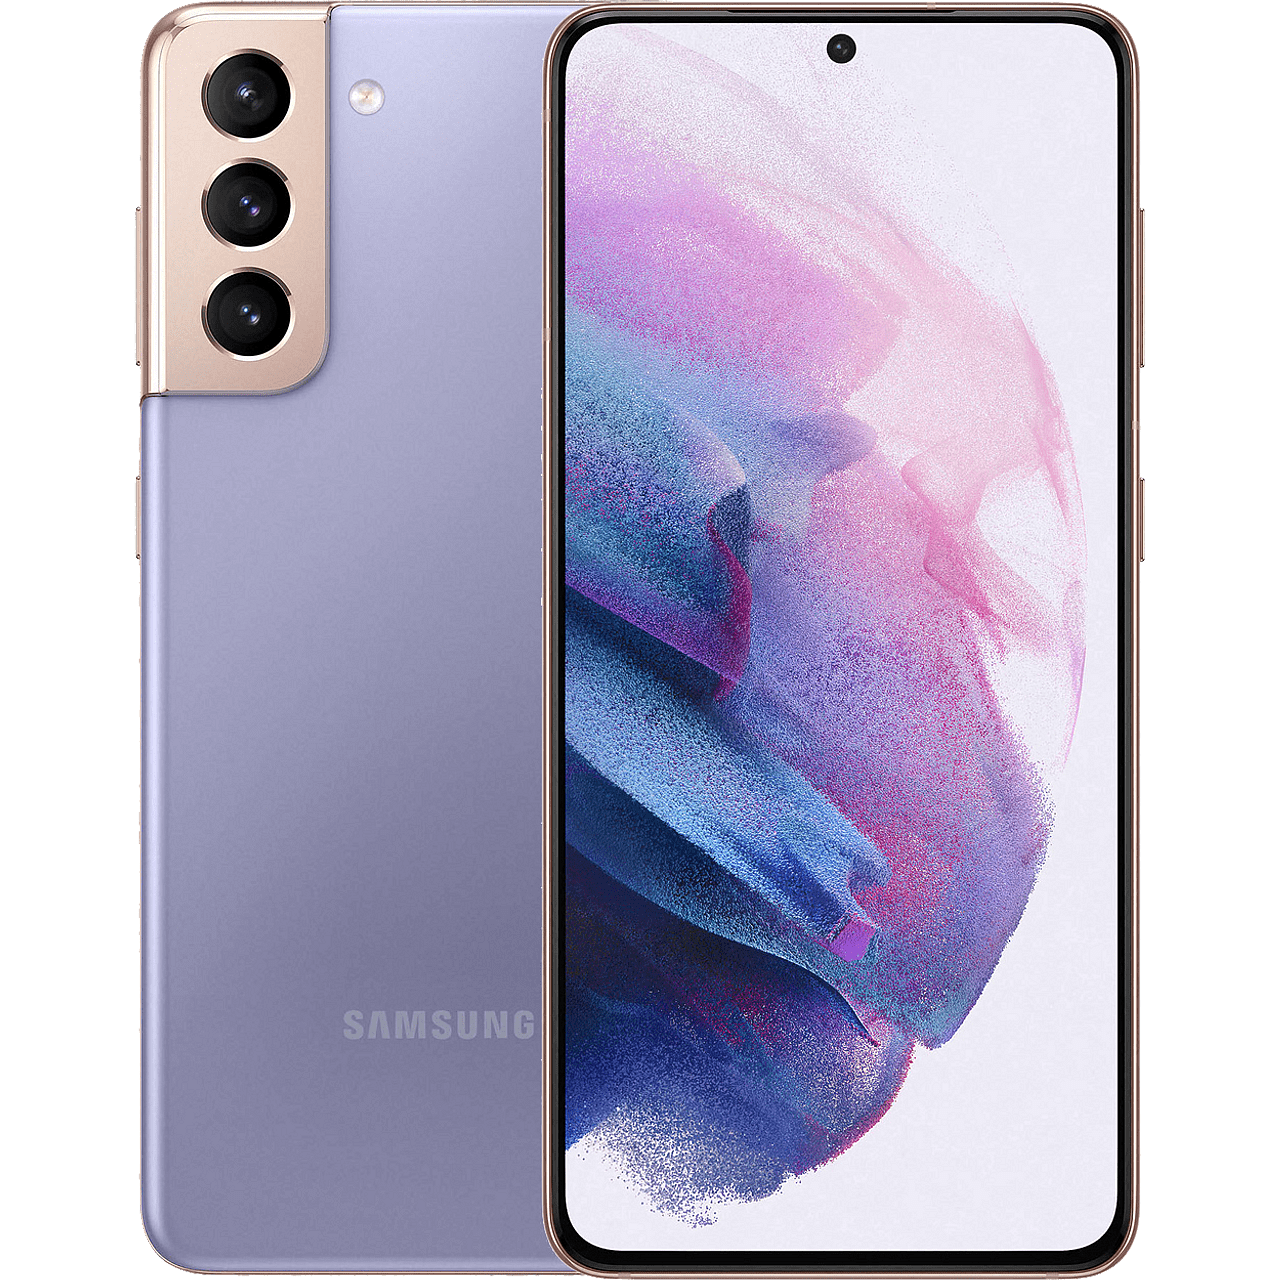
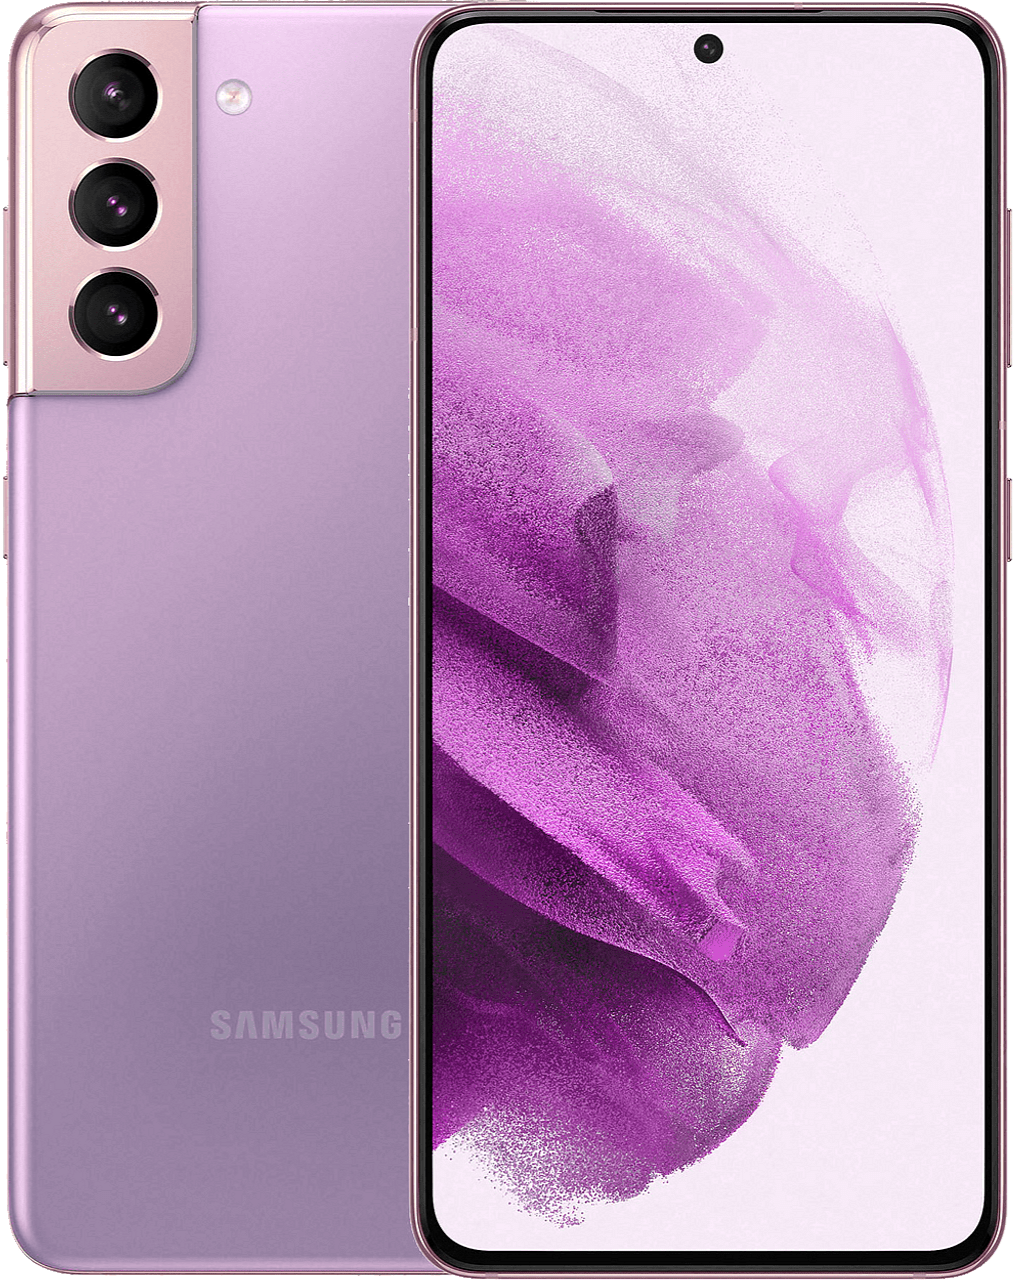
fix device images

diff --git a/style.css b/style.css
@@ -48,9 +48,6 @@
     --border-color: var(--border);
     --shadow-color: var(--primary-glow-sm);
     --shadow-elevation: var(--shadow);
-    --radius-sm: 8px;
-    --radius-md: 14px;
-    --radius-lg: 20px;
 }
 
 /* ---- Reset & Base ---- */
@@ -339,9 +336,11 @@ body::after {
     max-width: 560px;
     margin-left: auto;
     margin-right: auto;
-    line-height: 1.7;
+    line-height: 1.6;
     animation: fadeInUp 0.7s var(--ease-out) 0.2s both;
-    min-height: 2em;
+    display: block;
+    /* FIX: Espacio fijo reservado para que no salte al escribirse a 2 líneas */
+    min-height: 4rem; 
 }
 
 .typed-cursor {
@@ -742,6 +741,29 @@ body::after {
     box-shadow: 0 20px 50px rgba(0,0,0,0.4), var(--shadow-red);
     background: var(--card-bg-hover);
 }
+
+/* FIX: Contenedor y estilos para imágenes de resolución irregular */
+.device-image-wrap {
+    width: 100%;
+    height: 220px; /* Alto fijo para uniformar todas las imágenes */
+    display: flex;
+    align-items: center;
+    justify-content: center;
+    margin-bottom: 1.5rem;
+}
+
+.device-img {
+    max-width: 100%;
+    max-height: 100%;
+    object-fit: contain; /* Encaja la imagen sin estirarla */
+    filter: drop-shadow(0 10px 15px rgba(0,0,0,0.4)); /* Sombra para resaltar */
+    transition: transform 0.3s var(--ease);
+}
+
+.device-card:hover .device-img {
+    transform: scale(1.05) translateY(-4px); /* Efecto al pasar el cursor */
+}
+/* Fin del FIX de imágenes */
 
 .device-name {
     font-size: 1.05rem;
@@ -1401,17 +1423,6 @@ body::after {
 .reveal-delay-4 { transition-delay: 0.4s; }
 .reveal-delay-5 { transition-delay: 0.5s; }
 
-/* ---- Animations ---- */
-@keyframes fadeInUp {
-    from { opacity: 0; transform: translateY(24px); }
-    to { opacity: 1; transform: translateY(0); }
-}
-
-@keyframes fadeInDown {
-    from { opacity: 0; transform: translateY(-16px); }
-    to { opacity: 1; transform: translateY(0); }
-}
-
 /* ---- VIP Info Section ---- */
 .vip-info-section { padding: 4rem 0; }
 
@@ -1458,6 +1469,10 @@ body::after {
     .nav-menu.active { transform: translateX(0); }
     .nav-menu a { margin: 1.2rem 2rem; font-size: 1.15rem; }
     #translate-button { margin: 1.2rem 2rem; }
+    
+    .subtitle {
+        min-height: 5.5rem; 
+    }
 
     .main-title { font-size: 3rem; letter-spacing: -2px; }
     .device-list { grid-template-columns: 1fr; }
